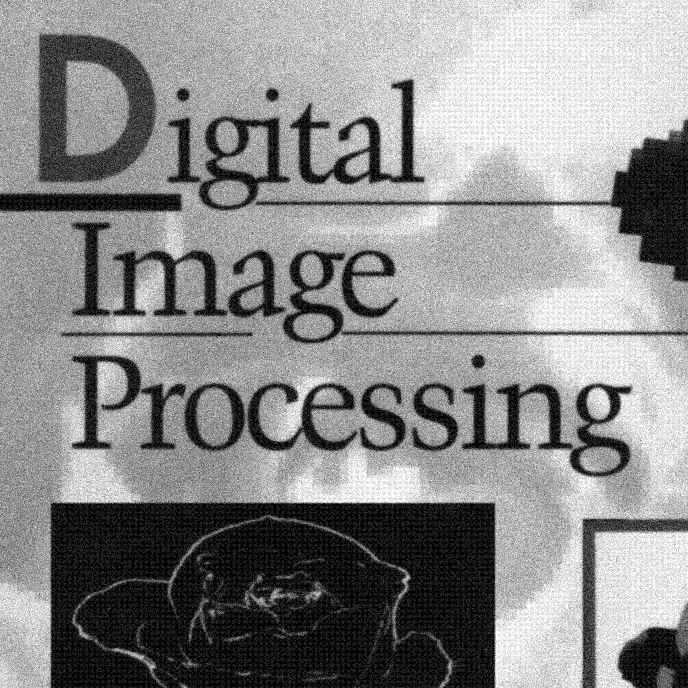
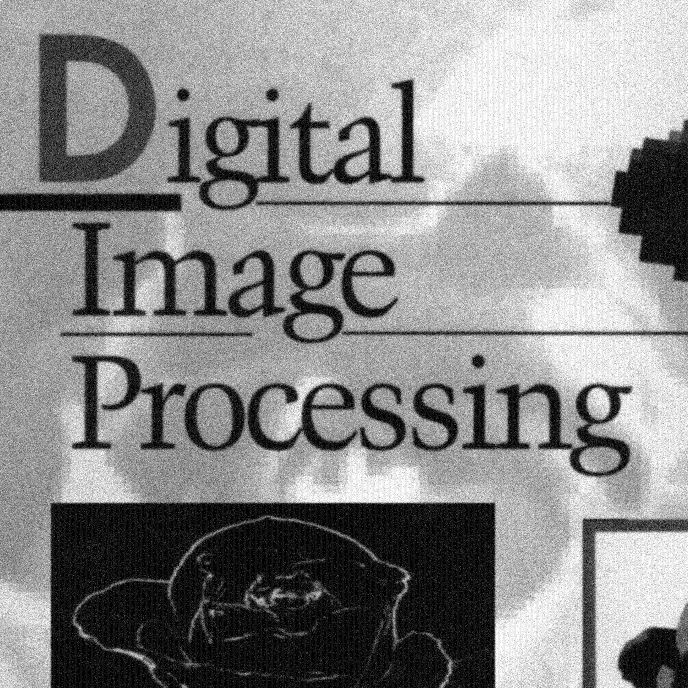
use different periodic func.

diff --git a/src/cn/edu/tsinghua/dip/PeriodicNoise.java b/src/cn/edu/tsinghua/dip/PeriodicNoise.java
@@ -3,6 +3,6 @@ package cn.edu.tsinghua.dip;
 class PeriodicNoise {
 
     static double getPixel(int i, int j) {
-        return 20 * Math.sin(20 * i) + 20 * Math.sin(20 * j);
+        return 20 * Math.sin(20 * i);
     }
 }
